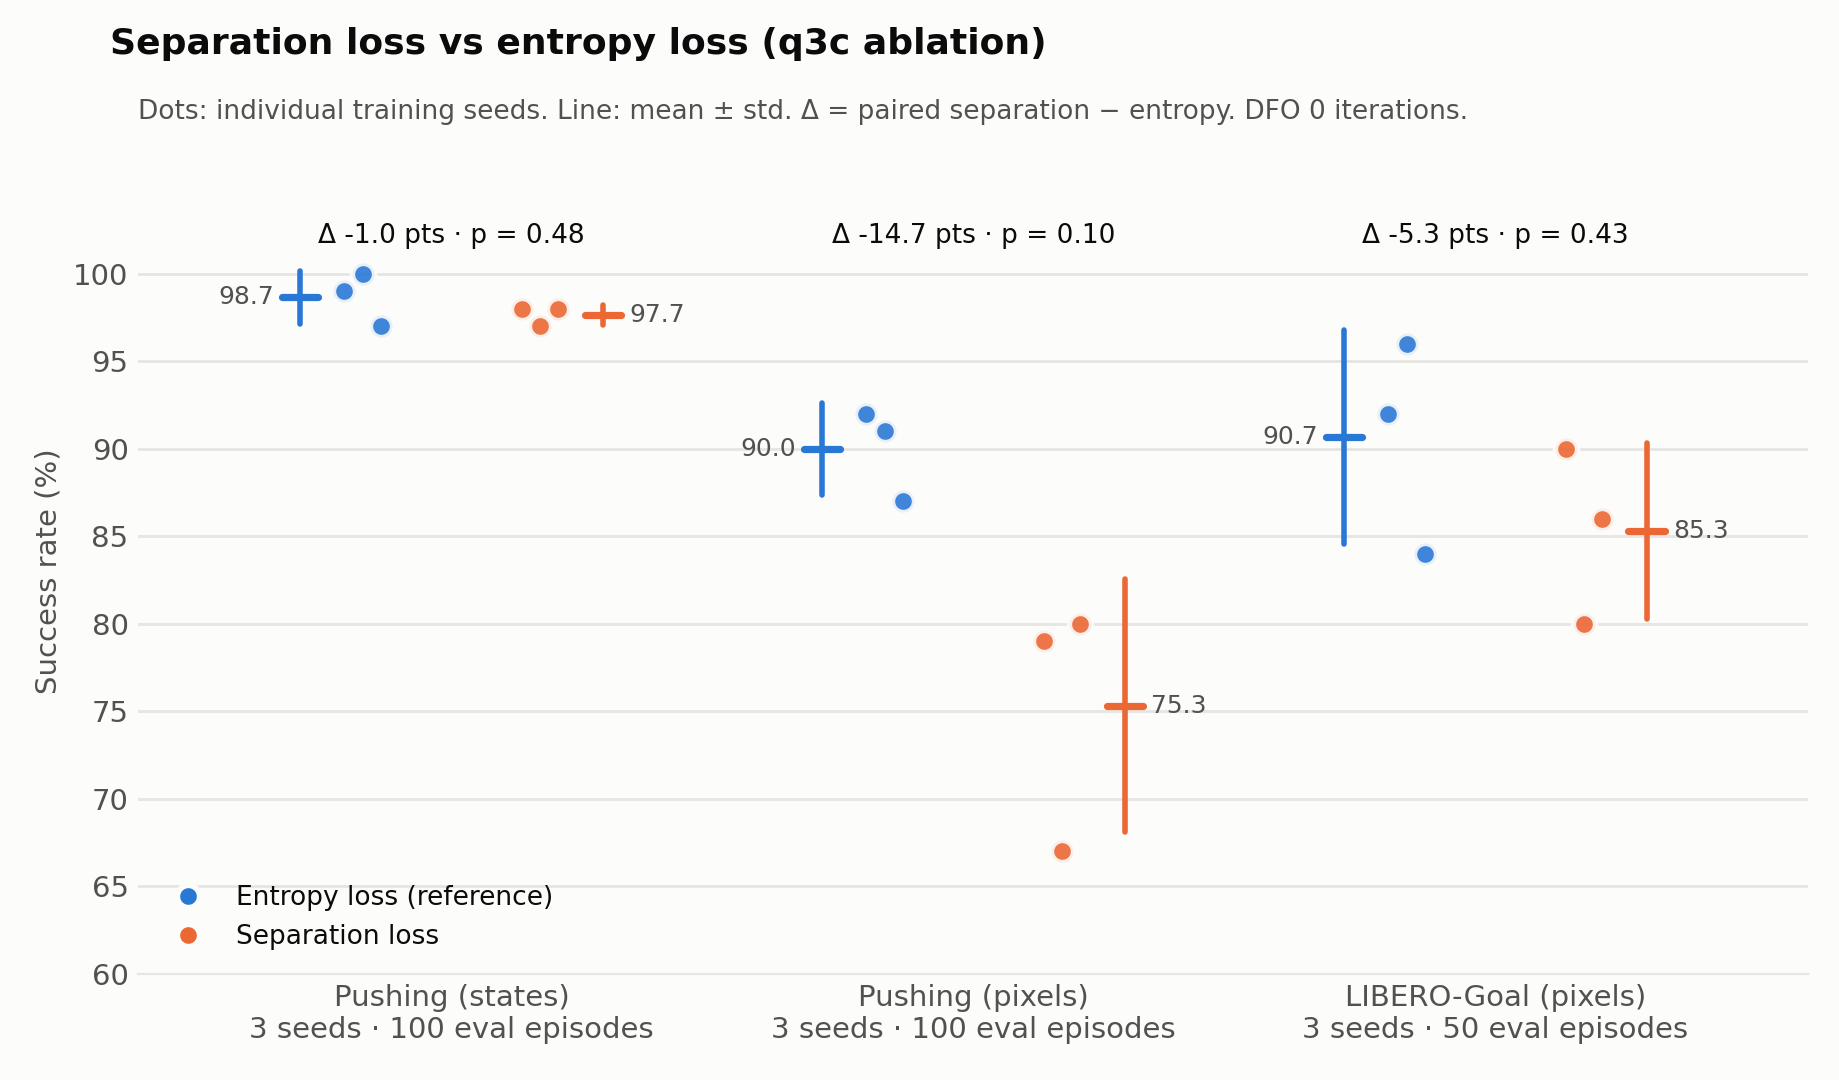
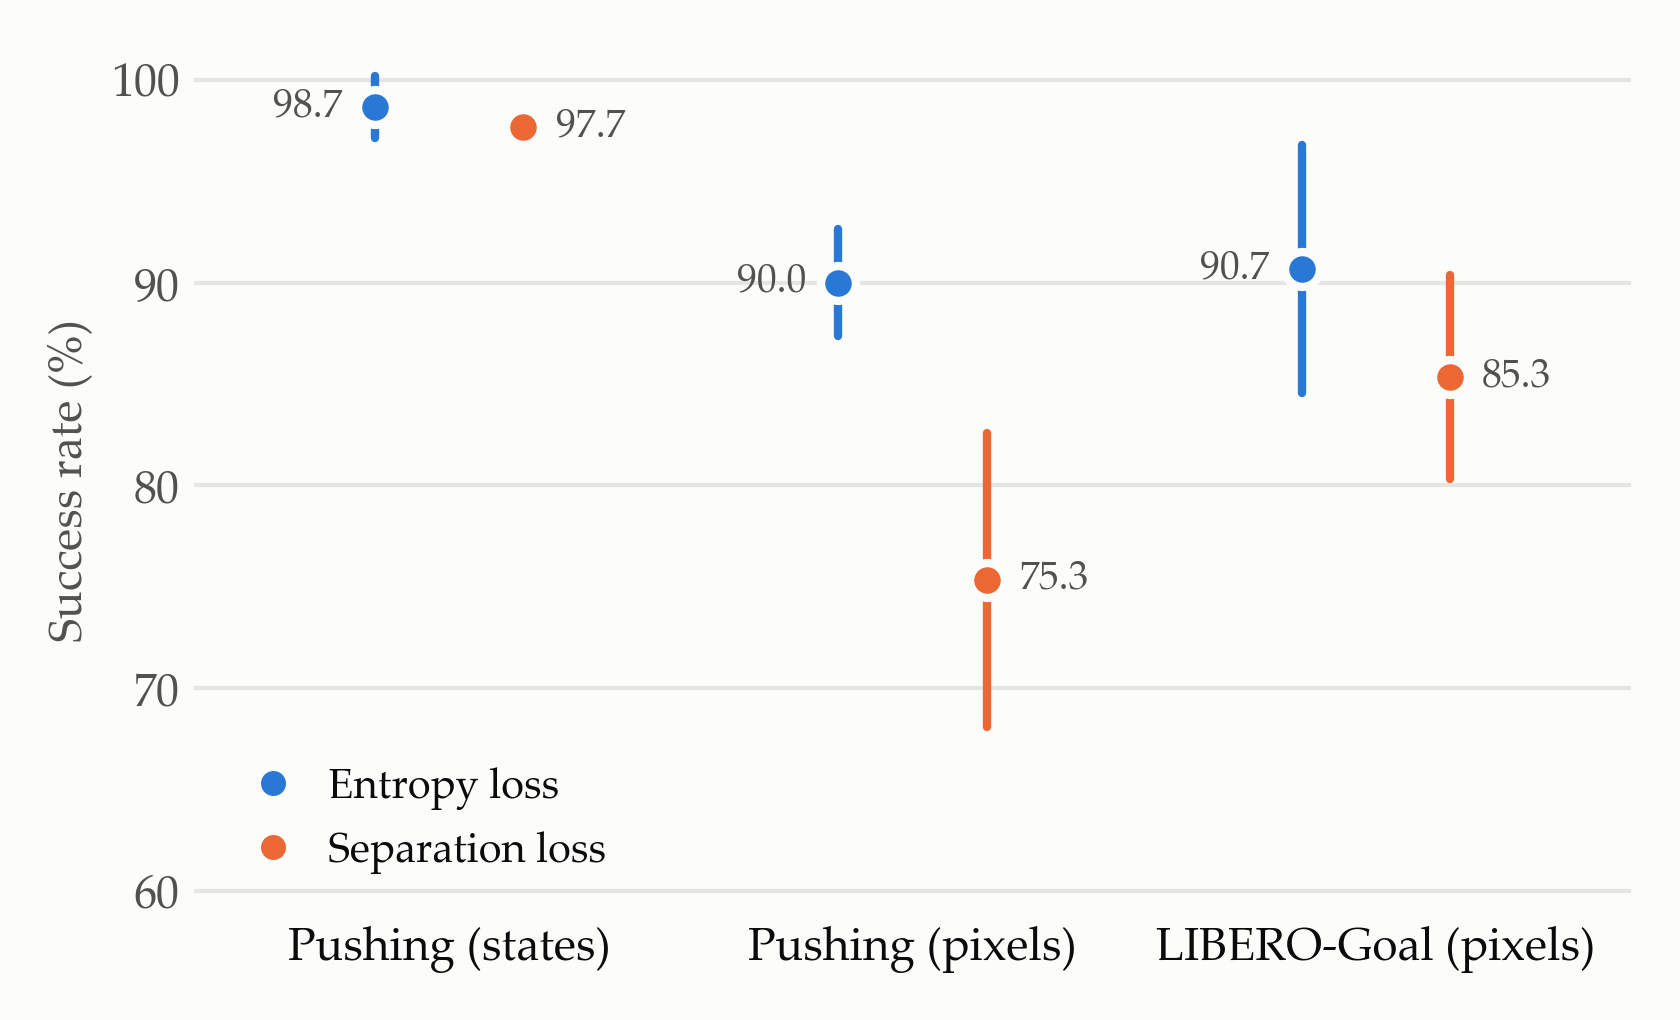
plot: compact paper version of separation vs entropy (Palatino, no counts)
Drops the title, subtitle, per-seed dots, seed/episode counts and p-values, so
the figure shows only mean +/- std per environment and loss. Set in Palatino
Linotype (registered from the Windows fonts on WSL; the script fails rather than
silently falling back), round y-ticks through 100, 5.6x3.4 in, written as PNG
(300 dpi) and PDF with embedded TrueType fonts for LaTeX.

diff --git a/scripts/plot_ablation_separation.py b/scripts/plot_ablation_separation.py
@@ -4,8 +4,8 @@
 Rebuilds the data from trials.jsonl (never hand-typed): for each ablation batch it
 matches every command line to its scored training record by exact fixed params,
 takes the reference arm (which trains with separation_loss="entropy") and the
-"separation_loss=separation" arm, 3 seeds each, and plots every seed plus the
-mean +/- std, with the paired separation - entropy difference per environment.
+"separation_loss=separation" arm, and plots mean +/- std per environment in a
+compact, untitled paper figure set in Palatino Linotype (PNG + PDF).
 
 Usage:
     uv run python scripts/plot_ablation_separation.py --out results/ablation/separation_vs_entropy.png
@@ -66,15 +66,16 @@ def load_arm_values(batch: str, env: str) -> tuple[dict, dict, int]:
             {s: r["success_rate"] * 100 for s, r in sep.items()}, eps)
 
 
-def paired_p(d: list[float]) -> float | None:
-    if len(d) < 2 or st.stdev(d) == 0:
-        return None
-    try:
-        from scipy import stats
-    except ImportError:
-        return None
-    t = st.mean(d) / (st.stdev(d) / sqrt(len(d)))
-    return float(2 * (1 - stats.t.cdf(abs(t), len(d) - 1)))
+def use_palatino() -> str:
+    """Register Palatino Linotype and return its family name; raise if unavailable."""
+    from matplotlib import font_manager as fm
+    name = "Palatino Linotype"
+    if not any(f.name == name for f in fm.fontManager.ttflist):
+        for path in sorted(Path("/mnt/c/Windows/Fonts").glob("pala*.ttf")) + sorted(Path.home().glob(".fonts/pala*.ttf")):
+            fm.fontManager.addfont(str(path))
+    if not any(f.name == name for f in fm.fontManager.ttflist):
+        raise SystemExit("Palatino Linotype not found (looked in matplotlib, /mnt/c/Windows/Fonts, ~/.fonts)")
+    return name
 
 
 def main() -> int:
@@ -82,60 +83,46 @@ def main() -> int:
     ap.add_argument("--out", type=Path, default=ROOT / "results/ablation/separation_vs_entropy.png")
     args = ap.parse_args()
 
-    plt.rcParams.update({"font.family": "DejaVu Sans", "font.size": 10.5, "axes.edgecolor": GRID,
-                         "axes.labelcolor": TEXT2, "xtick.color": TEXT2, "ytick.color": TEXT2})
-    fig, ax = plt.subplots(figsize=(9.2, 5.4), facecolor=SURFACE)
+    family = use_palatino()
+    plt.rcParams.update({"font.family": family, "font.size": 11, "axes.edgecolor": GRID, "axes.labelcolor": TEXT2,
+                         "xtick.color": TEXT, "ytick.color": TEXT2, "pdf.fonttype": 42, "ps.fonttype": 42})
+    fig, ax = plt.subplots(figsize=(5.6, 3.4), facecolor=SURFACE)
     ax.set_facecolor(SURFACE)
 
-    offset, jitter = 0.17, [-0.035, 0.0, 0.035]
-    ticklabels, ymin = [], 100.0
+    offset, lows = 0.16, []
     for gi, (label, batch, env) in enumerate(ENVS):
-        ent, sep, eps = load_arm_values(batch, env)
-        seeds = sorted(set(ent) & set(sep))
-        diffs = [sep[s] - ent[s] for s in seeds]
+        ent, sep, _ = load_arm_values(batch, env)
         for vals, color, dx in ((ent, C_ENT, -offset), (sep, C_SEP, offset)):
-            v = [vals[s] for s in seeds]
-            ymin = min(ymin, *v)
-            xs = [gi + dx + jitter[i % 3] for i in range(len(v))]
-            ax.scatter(xs, v, s=64, color=color, edgecolor=SURFACE, linewidth=2, zorder=3, alpha=0.9)
+            v = list(vals.values())
             m, sd = st.mean(v), (st.stdev(v) if len(v) > 1 else 0.0)
-            xm = gi + dx + (0.12 if dx > 0 else -0.12)
-            ax.plot([xm, xm], [m - sd, m + sd], color=color, linewidth=2, solid_capstyle="round", zorder=2)
-            ax.plot([xm - 0.035, xm + 0.035], [m, m], color=color, linewidth=2.6, solid_capstyle="round", zorder=2)
-            ax.text(xm + (0.05 if dx > 0 else -0.05), m, f"{m:.1f}", color=TEXT2, fontsize=9,
+            lows.append(m - sd)
+            x = gi + dx
+            ax.plot([x, x], [m - sd, m + sd], color=color, linewidth=2, solid_capstyle="round", zorder=2)
+            ax.scatter([x], [m], s=70, color=color, edgecolor=SURFACE, linewidth=2, zorder=3)
+            ax.text(x + (0.07 if dx > 0 else -0.07), m, f"{m:.1f}", color=TEXT2, fontsize=9.5,
                     ha="left" if dx > 0 else "right", va="center")
-        p = paired_p(diffs)
-        dm = st.mean(diffs)
-        ptxt = f"p = {p:.2f}" if p is not None else "p n/a"
-        # Short enough to fit inside its own group's slot (the long form collided).
-        ax.text(gi, 101.4, f"Δ {dm:+.1f} pts · {ptxt}", ha="center", va="bottom", color=TEXT, fontsize=9.5)
-        ticklabels.append(f"{label}\n{len(seeds)} seeds · {eps} eval episodes")
 
-    lo = max(0, 5 * int((ymin - 6) // 5))
-    ax.set_ylim(lo, 106)
-    ax.set_yticks(range(lo, 101, 5))
-    ax.set_xlim(-0.6, len(ENVS) - 0.4)
+    # Round ticks that always include 100, so points near the ceiling have a gridline to read against.
+    lo = max(0, 10 * int((min(lows) - 1) // 10))
+    ax.set_ylim(lo - 1, 101.5)
+    ax.set_yticks(range(lo, 101, 10))
+    ax.set_xlim(-0.55, len(ENVS) - 0.45)
     ax.set_xticks(range(len(ENVS)))
-    ax.set_xticklabels(ticklabels)
+    ax.set_xticklabels([e[0] for e in ENVS])
     ax.set_ylabel("Success rate (%)")
     ax.grid(axis="y", color=GRID, linewidth=1, linestyle="-")
     ax.set_axisbelow(True)
-    for side in ("top", "right", "left"):
+    for side in ("top", "right", "left", "bottom"):  # the lowest gridline is the baseline
         ax.spines[side].set_visible(False)
     ax.tick_params(axis="both", length=0)
-    fig.suptitle("Separation loss vs entropy loss (q3c ablation)", x=0.06, ha="left", y=0.975,
-                 color=TEXT, fontsize=13, fontweight="semibold")
-    ax.set_title("Dots: individual training seeds. Line: mean ± std. Δ = paired separation − entropy. DFO 0 iterations.",
-                 loc="left", color=TEXT2, fontsize=9.5, pad=18)
-    handles = [Line2D([], [], marker="o", linestyle="", markersize=8, markerfacecolor=C_ENT, markeredgecolor=SURFACE,
-                      markeredgewidth=2, label="Entropy loss (reference)"),
-               Line2D([], [], marker="o", linestyle="", markersize=8, markerfacecolor=C_SEP, markeredgecolor=SURFACE,
-                      markeredgewidth=2, label="Separation loss")]
-    leg = ax.legend(handles=handles, loc="lower left", frameon=False, fontsize=9.5, labelcolor=TEXT)
+    handles = [Line2D([], [], marker="o", linestyle="", markersize=8, markerfacecolor=c, markeredgecolor=SURFACE,
+                      markeredgewidth=2, label=l) for c, l in ((C_ENT, "Entropy loss"), (C_SEP, "Separation loss"))]
+    ax.legend(handles=handles, loc="lower left", frameon=False, fontsize=10, labelcolor=TEXT, handletextpad=0.3)
     fig.tight_layout()
     args.out.parent.mkdir(parents=True, exist_ok=True)
-    fig.savefig(args.out, dpi=200, facecolor=SURFACE)
-    print(f"-> {args.out}")
+    fig.savefig(args.out, dpi=300, facecolor=SURFACE)
+    fig.savefig(args.out.with_suffix(".pdf"), facecolor=SURFACE)
+    print(f"-> {args.out} (+ .pdf), font: {family}")
     return 0
 
 
